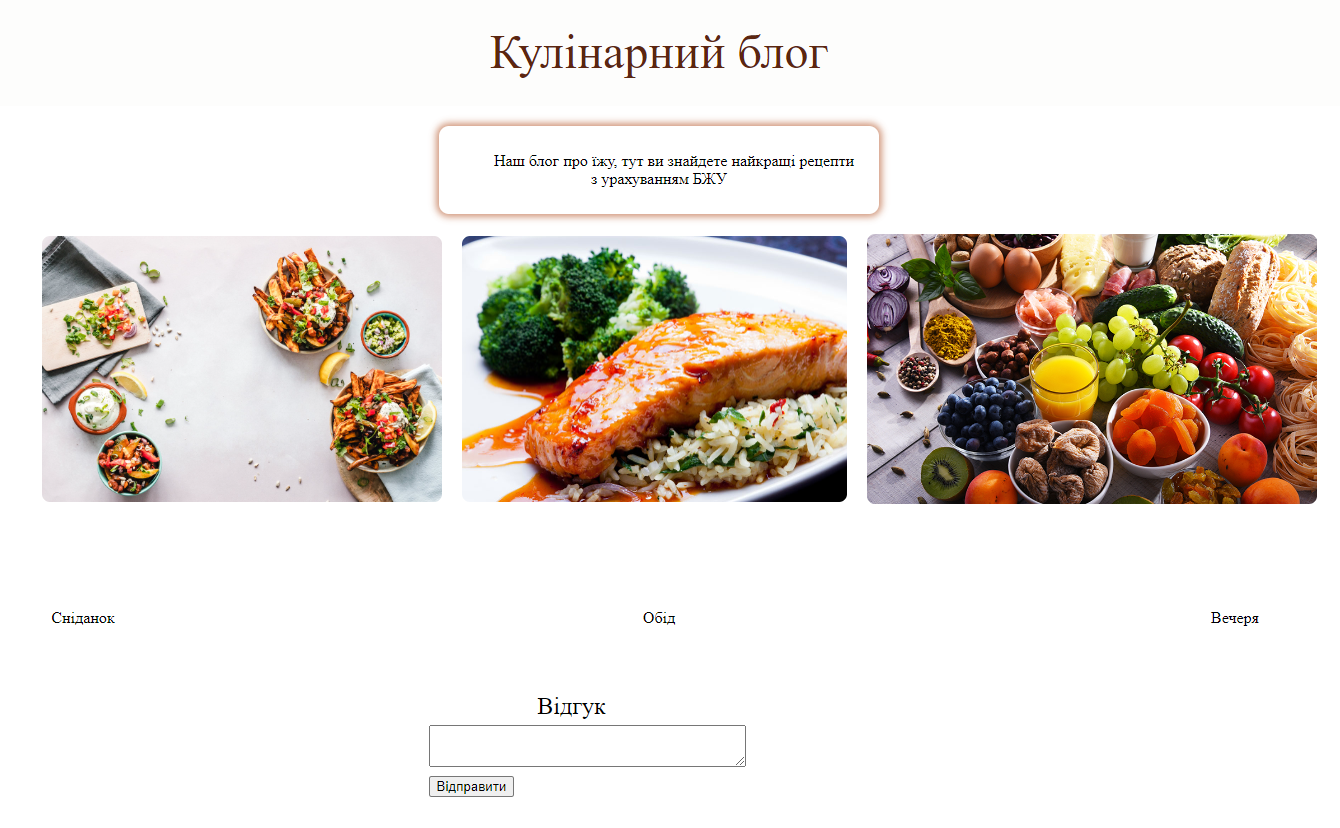
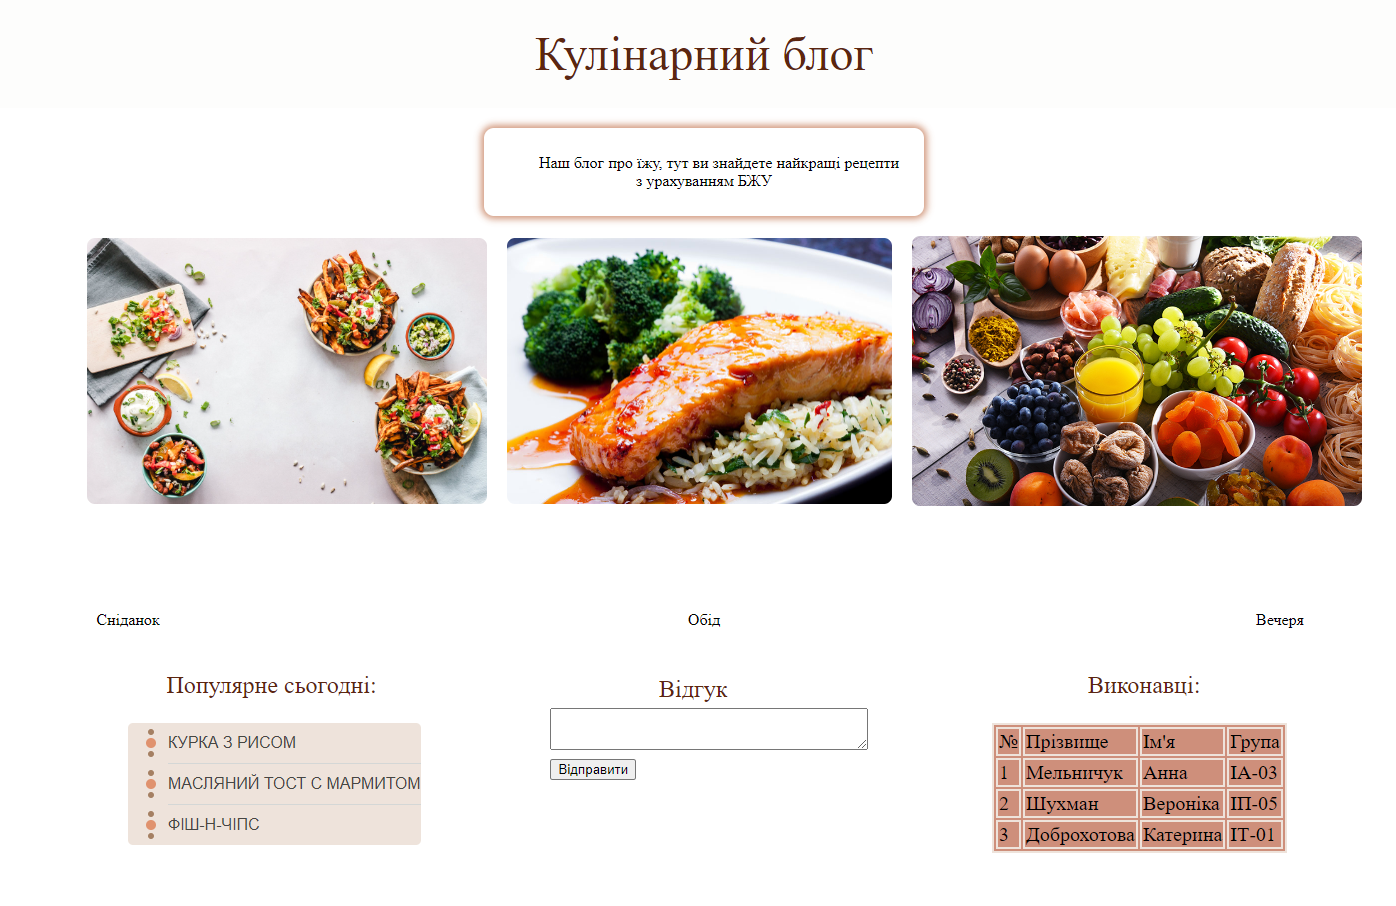
filled report 2
adjusted report 1, edited main page

diff --git a/Lab1/Lab1.css b/Lab1/Lab1.css
@@ -22,7 +22,6 @@
   padding: 10px 20px 10px 20px;
   margin: 20px auto;
   width: 400px;
-
 }
 .lunchtext {
   position: absolute;
@@ -66,15 +65,99 @@
 }
 .form{
   position:absolute;
-  top: 75%;
-  left: 38%;
+  top: 73%;
+  left: 42%;
 }
 .caption{
   font-size: 24px;
   text-align: center;
+  color: #5C2610;
 }
 .form textarea{
   width: 100%;
   margin: 5px 0;
   padding: 5px 15px;
+}
+.listname{
+  font-size: 24px;
+  position : absolute;
+  color: #5C2610;
+  top: 70%;
+  left: 22%;
+}
+
+.beads {
+  list-style: none;
+  background: #EEE3DB;
+  margin: 0;
+  padding-left: 40px;
+  border-radius: 5px;
+  position: absolute;
+  top: 78%;
+  left: 20%;
+}
+.beads li {
+  text-transform: uppercase;
+  font-family: 'Montserrat', sans-serif;
+  line-height: 40px;
+  border-bottom: 1px solid #D4D7D6;
+  position: relative;
+}
+.beads a {
+  text-decoration: none;
+  color: #464643;
+  display: block;
+  line-height: 40px;
+  position: relative;
+}
+.beads a:before {
+  content:"";
+  position: absolute;
+  left: -20px;
+  top: 6px;
+  width: 6px;
+  height: 6px;
+  border-radius: 50%;
+  background: #A58063;
+}
+.beads li:last-child {border-bottom: none;}
+.beads li:before,
+.beads li:after {
+  content:"";
+  position: absolute;
+  border-radius: 50%;
+}
+.beads li:before {
+  top: calc(50% - 5px);
+  background: #E0926E;
+  left: -22px;
+  width: 10px;
+  height: 10px;
+  transition: 0.5s linear;
+}
+.beads li:after {
+  bottom: 6px;
+  left: -20px;
+  width: 6px;
+  height: 6px;
+  background: #A58063;
+}
+.beads li:hover:before {background: #FFCE08;}
+.contributors {
+  font-size: 24px;
+  position: absolute;
+  color: #5C2610;
+  top: 70%;
+  left: 70%;
+}
+.contributorstable {
+  background-color: #ce8f7b;
+  position: absolute;
+  top: 78%;
+  left: 65%;
+  border: 2px #EEE3DB solid;
+}
+.contributorstable, td, tr {
+  font-size: 20px;
+  border: 2px #EEE3DB solid;
 }

diff --git a/Lab1/Lab1.html b/Lab1/Lab1.html
@@ -25,5 +25,45 @@
         <textarea name="message"></textarea>
         <input type="submit" name="submit_btn" value="Відправити">
     </form>
+    <div class="listname">
+        <p>Популярне сьогодні:</p>
+    </div>
+    <ul class="beads">
+        <li><a href="#">Курка з рисом</a></li>
+        <li><a href="#">Масляний тост с мармитом</a></li>
+        <li><a href="#">Фіш-н-чіпс</a></li>
+    </ul>
+    <div class="contributors">
+        <p>Виконавці:</p>
+    </div>
+    <div class="contributorstable">
+        <table>
+            <tr>
+                <td>№</td>
+                <td>Прізвище</td>
+                <td>Ім'я</td>
+                <td>Група</td>
+            </tr>
+            <tr>
+                <td>1</td>
+                <td>Мельничук</td>
+                <td>Анна</td>
+                <td>ІА-03</td>
+            </tr>
+            <tr>
+                <td>2</td>
+                <td>Шухман</td>
+                <td>Вероніка</td>
+                <td>ІП-05</td>
+            </tr>
+            <tr>
+                <td>3</td>
+                <td>Доброхотова</td>
+                <td>Катерина</td>
+                <td>ІТ-01</td>
+            </tr>
+        </table>
+
+    </div>
 </body>  
 </html>

diff --git a/reports/rep2/content/CSSDetails.html b/reports/rep2/content/CSSDetails.html
@@ -5,6 +5,51 @@
     <title>Title</title>
 </head>
 <body>
+<img src="../../images/css_1.png">
+<img src="../../images/css_2.png">
+<img src="../../images/css_3.png">
+<img src="../../images/css_4.png">
+<img src="../../images/css_5.png">
+<p>CSS-код шрифтів</p>
+<img src="../../images/fonts.png">
+<pre><code>
+    .beads li {
+        text-transform: uppercase;
+        font-family: 'Montserrat', sans-serif;
+        line-height: 40px;
+        border-bottom: 1px solid #D4D7D6;
+        position: relative;
+    }
+</code></pre>
+<p>CSS-код тексту</p>
+<img src="../../images/text_class.png">
+<pre><code>
+    .text{
+        padding: 10px 40px;
+        text-align: center;
+        border-radius: 10px;
+        box-shadow: 0 0 7px 3px #aa3e0c87;
+        text-indent: 30px;
+        padding: 10px 20px 10px 20px;
+        margin: 20px auto;
+        width: 400px;
+    }
+</code></pre>
+<p>CSS-код контурів і фону</p>
+<img src="../../images/table.png">
+<pre><code>
+    .contributorstable {
+        background-color: #ce8f7b;
+        position: absolute;
+        top: 78%;
+        left: 65%;
+        border: 2px #EEE3DB solid;
+    }
+    .contributorstable, td, tr {
+        font-size: 20px;
+        border: 2px #EEE3DB solid;
+    }
+</code></pre>
 
 </body>
 </html>

diff --git a/reports/rep2/content/Conclusions.html b/reports/rep2/content/Conclusions.html
@@ -5,6 +5,12 @@
     <title>Title</title>
 </head>
 <body>
-
+<big><big align="justify">
+    Висновок: внаслідок виконання лабораторної роботи було удосконалено головну сторінку нашого проєкту та придбано навички роботи
+    з каскадними таблицями стилів CSS, а саме навички роботи з селекторами (id, класу, тегу), шрифтами (font), зміною фону веб-сторінки
+    або окремого її елементу, були використані відступи для коректного відображення сторінки, position елементу змінювалась
+    за потребою на absolute або relative, змінювались контури таблиці та фон елементів списку. Були використані посилання, які
+    будуть доповнюватись у майбутньому.
+</big></big>
 </body>
 </html>

diff --git a/Head.html b/Head.html
@@ -10,7 +10,7 @@
     <h1 align="center"> ЗВІТИ  З ЛАБОРАТОРНИХ РОБІТ <br>                                          
         З ДИСЦИПЛІНИ «WEB-ОРІЄНТОВАНІ ТЕХНОЛОГІЇ. ОСНОВИ FRONT-END ТА BACKEND РОЗРОБОК» </h1>
         <p align="center"><b>БРИГАДА № 27</b></p>
-        <p align="center"><b>Студенти: Шухман Вероніка, гр. ІП-05; Мельничук Анна, гр. ІА-03</b></p>
+        <p align="center"><b>Студенти: Шухман Вероніка, гр. ІП-05; Мельничук Анна, гр. ІА-03; Доброхотова Катерина, гр. ІТ-01</b></p>
     <p align="center"><img src="Lab1/images/Veronika.jpg" width="100" height="100">
 		<img src="Lab1/images/Anna.jpg" width="100" height="100"></p>
         <table border=5px, width="100%">

diff --git a/reports/rep1/content/Theme.html b/reports/rep1/content/Theme.html
@@ -13,7 +13,7 @@
     Мета: придбати практичні навички роботи з HTML-документом, таблицями,
     зображеннями, посиланнями, списками, формами. Створити шаблон звітного HTML-документом для відображення
     результатів роботи всіх лабораторних робіт.<br>
-    Місце розташування: https://github.com/nikelyandjelo/WEB
+    Місце розташування: <a href="https://github.com/nikelyandjelo/WEB">https://github.com/nikelyandjelo/WEB</a>
 </big></big>
 </body>
 </html>

diff --git a/reports/rep1/content/MainPage.html b/reports/rep1/content/MainPage.html
@@ -8,5 +8,18 @@
 </head>
 <body>
 <img src="../../images/page_code.png">
+<img src="../../images/page_code2.png">
+<p>HTML-код таблиці</p>
+<img src="../../images/page_code2.png">
+<img src="../../images/table.png">
+<p>HTML-код зображень</p>
+<img src="../../images/img_code.png">
+<img src="../../images/images.png">
+<p>HTML-код списку</p>
+<img src="../../images/list_code.png">
+<img src="../../images/fonts.png">
+<p>HTML-код посилань</p>
+<img src="../../images/links_code.png">
+<img src="../../images/fonts.png">
 </body>
 </html>

diff --git a/reports/rep2/content/Theme.html b/reports/rep2/content/Theme.html
@@ -14,7 +14,7 @@
     списками, різноманітними властивостями кольору і фону, зовнішними та
     внутрішними відступами, плаваючими елементами, оформленням текстових
     елементів. <br>
-    Місце розташування: https://github.com/nikelyandjelo/WEB
+    Місце розташування: <a href="https://github.com/nikelyandjelo/WEB">https://github.com/nikelyandjelo/WEB</a>
 </big></big>
 </body>
 </html>

diff --git a/reports/rep2/content/Selectors.html b/reports/rep2/content/Selectors.html
@@ -29,5 +29,21 @@
         text-align: center;
     }
     </code></pre>
+<p>Селектори id:</p>
+<img src="../../images/id_selector.png" >
+<p>Селектори тегу:</p>
+<img src="../../images/logo_class.png">
+<pre><code>
+    .logo h1 {
+        position: relative;
+        color: #5C2610;
+        font-size: 3em;
+        font-weight: normal;
+        line-height: 1;
+        padding: 10px 0;
+        margin: 0;
+        display: inline-block;
+    }
+    </code></pre>
 </body>
 </html>

diff --git a/reports/rep1/content/Contributors.html b/reports/rep1/content/Contributors.html
@@ -8,7 +8,8 @@
     <big><big align="justify">
         Виконавці проєкту: <br>
         Мельничук Анна, група ІА-03 <br>
-        Шухман Вероніка, група ІП-05
+        Шухман Вероніка, група ІП-05 <br>
+        Доброхотова Катерина, група ІТ-01
     </big></big>
 </body>
 </html>

diff --git a/reports/rep2/content/StyleMethods.html b/reports/rep2/content/StyleMethods.html
@@ -5,6 +5,7 @@
     <title>Title</title>
 </head>
 <body>
-
+<img src="../../images/css_methods.png">
+<img src="../../images/css_link.png">
 </body>
 </html>
